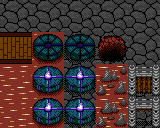
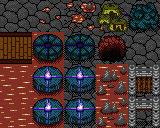
Additional sprites, lava levels

diff --git a/src/data/levels/lava/tristram.js b/src/data/levels/lava/tristram.js
@@ -3,62 +3,75 @@ const level = {
   title: 'The Abyss of Tristram (WIP)',
   tileset: 'lava',
   entrance: { 'face': 0, 'row': 2, 'col': 3 },
-  pickups: [],
+  pickups: [{
+    type: 'message',
+    behavior: 'inn',
+    content: 'SHAMAN: I can HEAL you if you get hurt, but be warned, the touch of the WRAITH is lethal.',
+    location: { 'face': 0, 'row': 3, 'col': 2 },
+  },{
+    type: 'message',
+    content: 'SORCEROR: The WRAITH cannot pass over our SEAL, so we are safe here...for now.',
+    location: { 'face': 0, 'row': 3, 'col': 4 },
+  },{
+    type: 'message',
+    content: 'ELDER: The WRAITH OF TRISTRAM draws its power from the DARKNESS. The PIPS you\'ve been lighting throughout the WORLDS have weakened him, and these last PIPS are all that remain. You must LIGHT them, and free us from the WRAITH forever!',
+    location: { 'face': 0, 'row': 4, 'col': 3 },
+  }],
   enemies: [],
   faces: [
     [
-      ['X','X','X','|','X','X','X'],
-      ['X','X','X','|','X','X','X'], // ONE
-      ['X','X',' ',' ',' ','X','X'], // ↑ right edge of 5
-      ['X','X',' ','●',' ','X','X'], // → top edge of 3
-      ['X','X',' ',' ',' ','X','X'], // ↓ right edge of 2
-      ['X','X','X','X','X','X','X'], // ← bottom edge of 4
-      ['X','X','X','X','X','X','X']
+      ['V','V','V','|','V','V','V'],
+      ['V','X','X','|','X','X','V'], // ONE
+      ['V','X',' ',' ',' ','X','V'], // ↑ right edge of 5
+      ['V','X','W','●','W','X','V'], // → top edge of 3
+      ['V','X',' ','W',' ','X','V'], // ↓ right edge of 2
+      ['V','X','X','X','X','X','V'], // ← bottom edge of 4
+      ['V','V','V','V','V','V','V']
     ],
     [
-      [' ',' ',' ',' ',' ',' ',' '],
-      [' ','D',' ','D',' ','●',' '], // TWO
+      [' ',' ',' ',' ',' ','Y',' '],
+      ['A','D','A','D','A','●','A'], // TWO
       [' ',' ',' ',' ',' ',' ',' '], // ↑ left edge of 4
-      [' ','D',' ','D',' ','D',' '], // → bottom edge of 1
-      [' ',' ',' ',' ',' ',' ',' '], // ↓ left edge of 3
-      [' ','●',' ','D',' ','D',' '], // ← top edge of 6
+      ['A','D','A','D','A','D','A'], // → bottom edge of 1
+      [' ',' ','Y',' ',' ',' ',' '], // ↓ left edge of 3
+      ['A','●','A','D','A','D','A'], // ← top edge of 6
       [' ',' ',' ',' ',' ',' ',' ']
     ],
     [
-      [' ',' ',' ',' ',' ',' ',' '],
-      [' ','D',' ','D',' ','●',' '], // THREE
-      [' ',' ',' ',' ',' ',' ',' '], // ↑ right edge of 1
-      [' ','D',' ','●',' ','D',' '], // → top edge of 5
-      [' ',' ',' ',' ',' ',' ',' '], // ↓ right edge of 6
-      [' ','●',' ','D',' ','D',' '], // ← bottom edge of 2
-      [' ',' ',' ',' ',' ',' ',' ']
+      [' ',' ',' ','A','A','A','A'],
+      ['A','D',' ','D',' ','●',' '], // THREE
+      ['A',' ',' ',' ',' ','Y',' '], // ↑ right edge of 1
+      ['A','D',' ','●',' ','D','A'], // → top edge of 5
+      ['A',' ',' ',' ','Y',' ',' '], // ↓ right edge of 6
+      ['A','●',' ','D',' ','D',' '], // ← bottom edge of 2
+      ['A','A',' ','A',' ',' ',' ']
     ],
     [
-      [' ',' ',' ',' ',' ',' ',' '],
-      [' ','●',' ','D',' ','●',' '], // FOUR
-      [' ',' ',' ',' ',' ',' ',' '], // ↑ left edge of 6
-      [' ','D',' ','D',' ','D',' '], // → bottom edge of 5
-      [' ',' ',' ',' ',' ',' ',' '], // ↓ left edge of 1
+      [' ',' ',' ','A',' ',' ',' '],
+      [' ','●','Y','D',' ','●',' '], // FOUR
+      [' ',' ',' ','A',' ',' ',' '], // ↑ left edge of 6
+      ['A','D','A','D','A','D','A'], // → bottom edge of 5
+      [' ',' ',' ','A',' ',' ',' '], // ↓ left edge of 1
       [' ','●',' ','D',' ','●',' '], // ← top edge of 2
-      [' ',' ',' ',' ',' ',' ',' ']
+      [' ',' ',' ','A',' ',' ',' ']
     ],
     [
-      [' ',' ',' ',' ',' ',' ',' '],
+      [' ',' ',' ','A',' ','Y',' '],
       [' ','●',' ','D',' ','●',' '], // FIVE
-      [' ',' ',' ',' ',' ',' ',' '], // ↑ right edge of 3
-      [' ','D',' ','●',' ','D',' '], // → top edge of 1
-      [' ',' ',' ',' ',' ',' ',' '], // ↓ right edge of 4
+      [' ','A','Y',' ',' ','A',' '], // ↑ right edge of 3
+      ['A','D',' ','●',' ','D',' '], // → top edge of 1
+      [' ','A',' ','A',' ','A',' '], // ↓ right edge of 4
       [' ','●',' ','D',' ','●',' '], // ← bottom edge of 6
-      [' ',' ',' ',' ',' ',' ',' ']
+      [' ','Y',' ','A','Y',' ',' ']
     ],
     [
-      [' ',' ',' ',' ',' ',' ',' '],
-      [' ','●',' ','D',' ','●',' '], // SIX
+      [' ','A',' ','A',' ','A',' '],
+      [' ','●','Y','D',' ','●','Y'], // SIX
       [' ',' ',' ',' ',' ',' ',' '], // ↑ left edge of 2
-      [' ','●',' ','D',' ','●',' '], // → bottom edge of 3
-      [' ',' ',' ',' ',' ',' ',' '], // ↓ left edge of 5
+      ['A','●',' ','D',' ','●','A'], // → bottom edge of 3
+      [' ','A',' ',' ','Y','A',' '], // ↓ left edge of 5
       [' ','●',' ','D',' ','●',' '], // ← top edge of 4
-      [' ',' ',' ',' ',' ',' ',' ']
+      ['Y',' ',' ','A',' ',' ',' ']
     ]
   ]
 }

diff --git a/src/data/levels/lava/vvardenfell.js b/src/data/levels/lava/vvardenfell.js
@@ -1,12 +1,20 @@
 const level = {
-  title: 'The Ashlands of Vvardenfell (WIP)',
+  title: 'The Ashlands of Vvardenfell',
   tileset: 'lava',
   entrance: { 'face': 5, 'row': 3, 'col': 3 },
   pickups: [{
     type: 'message',
+    content: 'TRIBESMAN: This area is treacherous, and you\'re sure to take some falls. The SHAMAN in the VILLAGE nearby can HEAL your wounds, and he\'s left some POTIONS in CHESTS to help travellers that get stuck.',
+    location: { 'face': 5, 'row': 3, 'col': 2 },
+  },{
+    type: 'message',
     behavior: 'inn',
-    content: 'INNKEEPER: It\'s dangerous outside of town. Stay close, and come back to rest when you\'re hurt.',
+    content: 'SHAMAN: It\'s dangerous outside of the VILLAGE. Stay close, and come back to HEAL when you\'re hurt.',
     location: { 'face': 4, 'row': 1, 'col': 2 },
+  },{
+    type: 'message',
+    content: 'MINER: The ORE that the ANCIENTS mined to build the PIPS you\'ve been lighting come from these ROCK FORMATIONS.',
+    location: { 'face': 3, 'row': 4, 'col': 3 },
   },{
     type: 'key',
     container: 'chest',
@@ -89,7 +97,7 @@ const level = {
       [' ','●','P','P',' ','●',' '], // FOUR
       [' ','Y',' ',' ','P',' ',' '], // ↑ left edge of 6
       ['A',' ','P','Y',' ',' ','P'], // → bottom edge of 5
-      ['A','A','A',' ',' ','Y',' '], // ↓ left edge of 1
+      ['A','A','A','W',' ','Y',' '], // ↓ left edge of 1
       [' ','●','A','A',' ','●',' '], // ← top edge of 2
       [' ',' ','P','P','Y',' ','Y']
     ],
@@ -100,13 +108,13 @@ const level = {
       ['Y',' ','X','▪','X','X',' '], // → top edge of 1
       [' ',' ','Y','X','Y',' ',' '], // ↓ right edge of 4
       [' ','●',' ',' ',' ','●','A'], // ← bottom edge of 6
-      ['P',' ','Y','A','A',' ',' ']
+      ['P',' ','Y','F','F',' ',' ']
     ],
     [
       ['P','P','P','P','P','P','P'],
       ['P','●',' ','P',' ','●','P'], // SIX
       [' ','P',' ','P','P',' ',' '], // ↑ left edge of 2
-      ['P','●','P',' ','P','●','P'], // → bottom edge of 3
+      ['P','●','W',' ','P','●','P'], // → bottom edge of 3
       [' ','P','P','P','P',' ',' '], // ↓ left edge of 5
       ['P','●',' ','P','P','●','P'], // ← top edge of 4
       ['P','P','P',' ',' ','P','P']

diff --git a/src/components/tile.vue b/src/components/tile.vue
@@ -412,7 +412,7 @@ export default {
 
 //COURIER
 .enemy--courier {
-	background-position:0 0;
+	background-position:0 -320px;
 	animation:animateSpriteThree 0.5s infinite;
 	&.enemy--attacking { animation:animateSpriteFour 0.5s infinite; }
   &.enemy--dying { animation:animateSpriteThree 0.5s infinite, flash 0.5s linear infinite alternate, disappear 0.5s linear 1s infinite; }

diff --git a/src/components/die.vue b/src/components/die.vue
@@ -1037,11 +1037,6 @@ export default {
 							this.showDialog(pickup.content, false);
 						}
 
-						//inns also need to show the healed message after their main text
-						if (pickup.behavior === 'inn') {
-							this.showDialog('You RESTED to recover full HP!', false);
-						}
-
 						//messages are done here
 						return;
 					}
